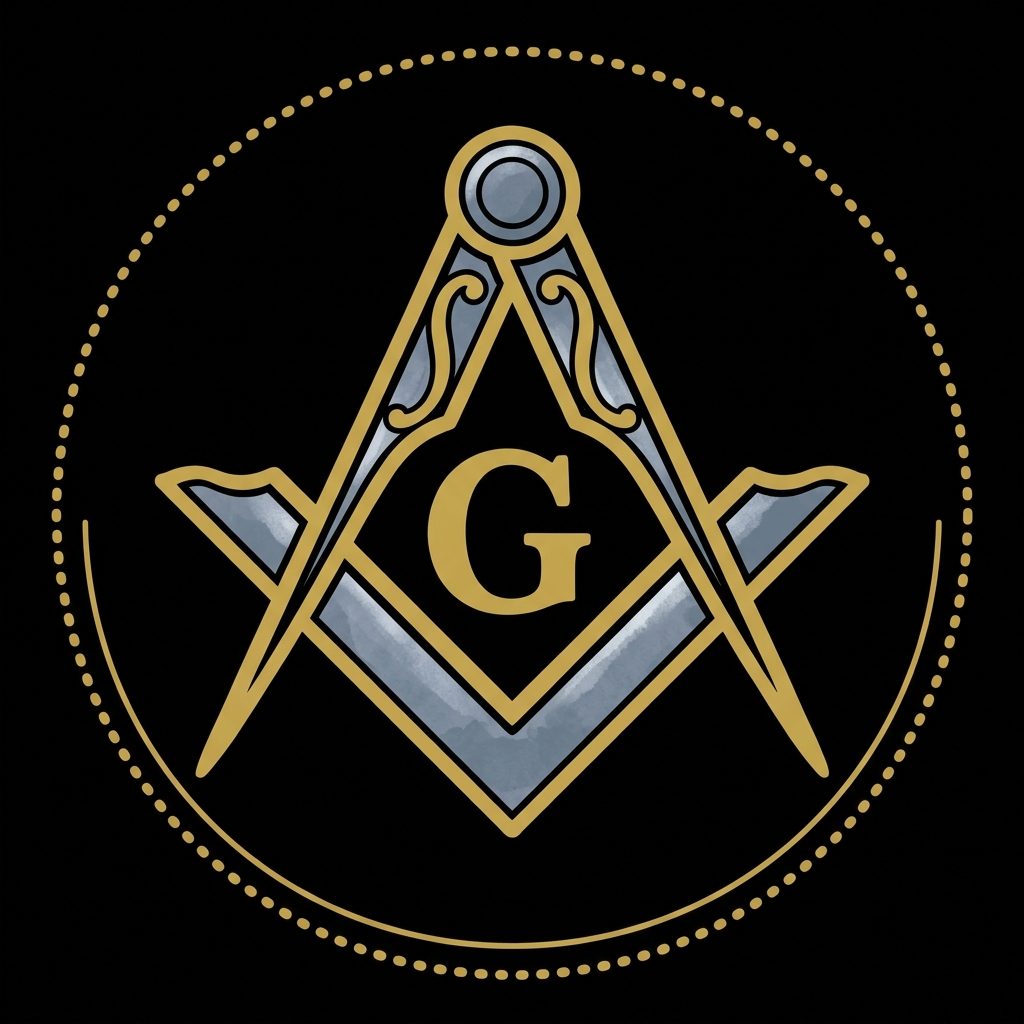
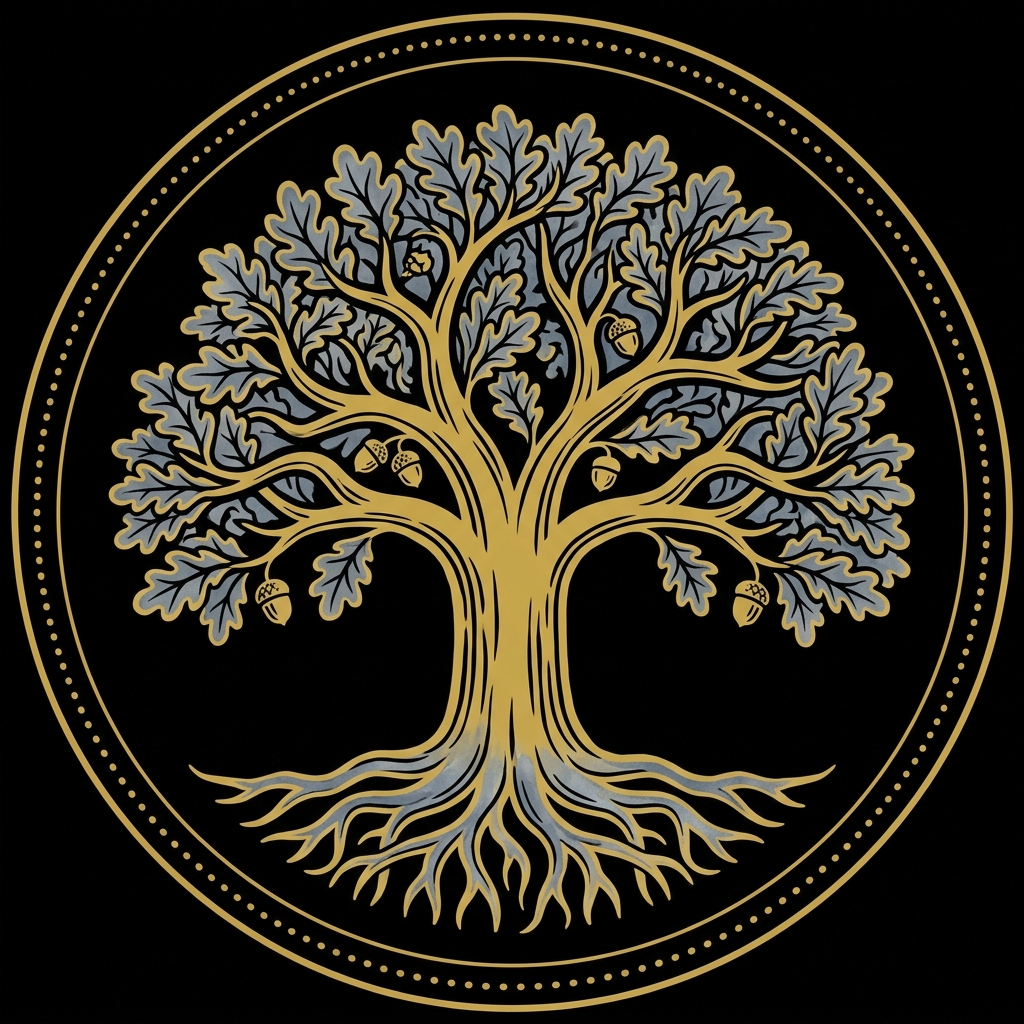
feat(solara): v2 work を大樹に変更 + fortune の方位文字を除去
オーナー指示 (2026-05-10):
- work: masonic コンパス&定規 → 大樹 (Tree of Life)
  「Workは仕事だけでなく、学生も対象。社会・成長の意味を持たせたい」
  → 学生・社会人・退職者すべてに通じる普遍的モチーフへ。
- fortune: 16方位コンパスローズの NW/N/NE/W/E/SW/S/SE 文字を除去
  プロンプトを「ABSOLUTELY NO LETTERS」「角度位置のみで方位表現」に強化。

## 元絵保護
- 旧 work.png → v2/_backup/work_masonic_with_G.png に退避
- 旧 fortune.png → v2/_backup/fortune_with_compass_letters.png に退避
CLAUDE.md L178-181 元絵保護ルール準拠。

## healing は moon 採用方針確定 (healing_no_moon は v2/ 保存のまま不採用)

diff --git a/apps/solara/mockup/generate_menu_icons_v2.py b/apps/solara/mockup/generate_menu_icons_v2.py
@@ -115,13 +115,19 @@ ICONS = {
     ),
 
     "work": (
-        "A large masonic compass-and-square symbol at exact center occupying ~75% of the canvas: "
-        "a draftsman's COMPASS (two legs forming an inverted V) overlapping with a CARPENTER'S SQUARE "
-        "(an L-shaped right angle), forming the classic Freemason emblem. "
-        "Drawn with thick bold gold strokes. "
-        "NO Saturn glyph, NO planetary rings, NO astrological symbols. "
+        "A large majestic oak tree at exact center occupying ~80% of the canvas, "
+        "drawn with thick bold gold strokes. The tree has wide spreading branches "
+        "at the top with detailed foliage and a few visible acorns, a strong trunk, "
+        "and visible roots spreading symmetrically at the bottom — "
+        "Tree of Life style with branches and roots in balanced proportion. "
+        "NO masonic compass, NO carpenter's square, NO Freemason emblem, "
+        "NO letters of any kind (especially NO 'G'), "
+        "NO astrological symbols, NO planetary glyphs, "
+        "NO numbers, NO text inside or around the tree. "
+        "The tree symbolizes growth, social presence, and accumulated effort - "
+        "applicable to students, workers, and retirees alike. "
         + accent("dusty slate-blue indigo grey (#7B8B9E)")
-        + "The compass and square carry the slate-blue tint; the dotted ring stays gold."
+        + "The foliage and roots carry the slate-blue tint; the trunk and dotted ring stay gold."
     ),
 
     "healing_moon": (
@@ -158,10 +164,15 @@ ICONS = {
 
     "fortune": (
         "A large compass rose at exact center occupying ~80% of the canvas: "
-        "8 prominent radiating points (N/E/S/W cardinal + 4 intermediate), "
-        "with thick bold gold strokes. "
-        "A small upward-pointing arrow or fleur-de-lis at the North position. "
-        "Cartographic engraving style, simplified. "
+        "8 prominent radiating triangular points - 4 cardinal directions at the "
+        "topmost / rightmost / bottommost / leftmost positions, plus 4 intermediate "
+        "diagonal directions. Drawn with thick bold gold strokes. "
+        "A small upward-pointing arrow or fleur-de-lis ornament at the topmost position. "
+        "ABSOLUTELY NO LETTERS anywhere on the image. "
+        "NO compass direction abbreviations, NO labels, NO writing, NO characters, "
+        "NO text of any kind. The directional points are visually distinct by their "
+        "angular position only - NOT by any letter, symbol, or character. "
+        "Simplified cartographic engraving aesthetic. "
         + accent("aged copper bronze (#9A6F4A)")
         + "The compass points carry the copper tint; the central rose lines and dotted ring stay gold."
     ),
